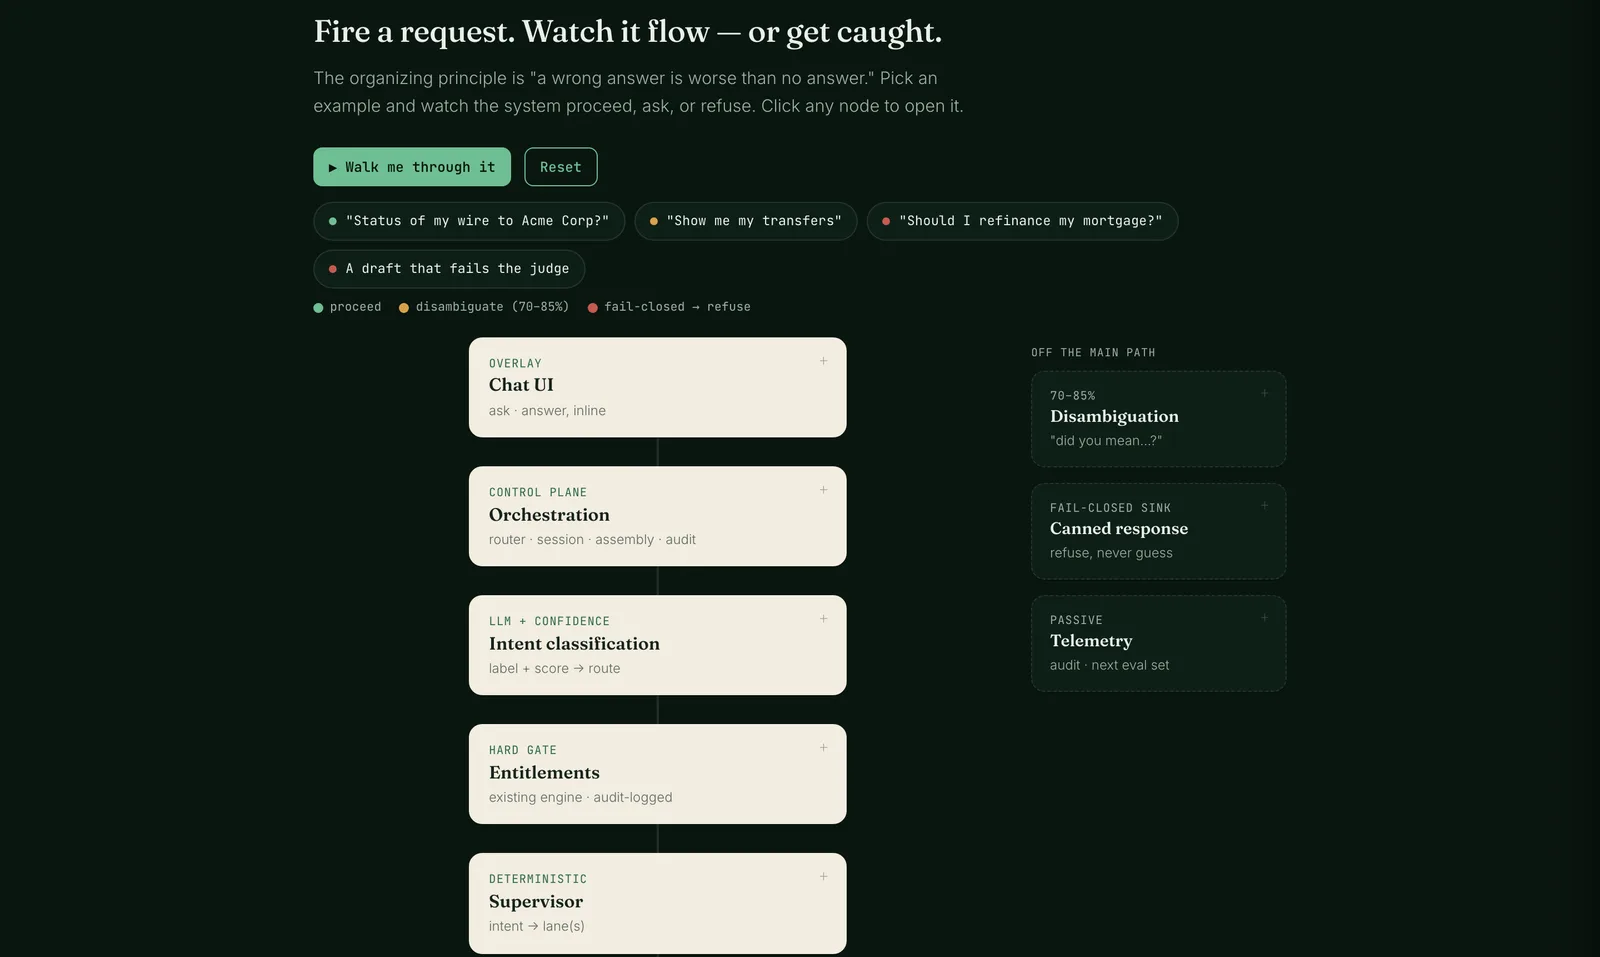
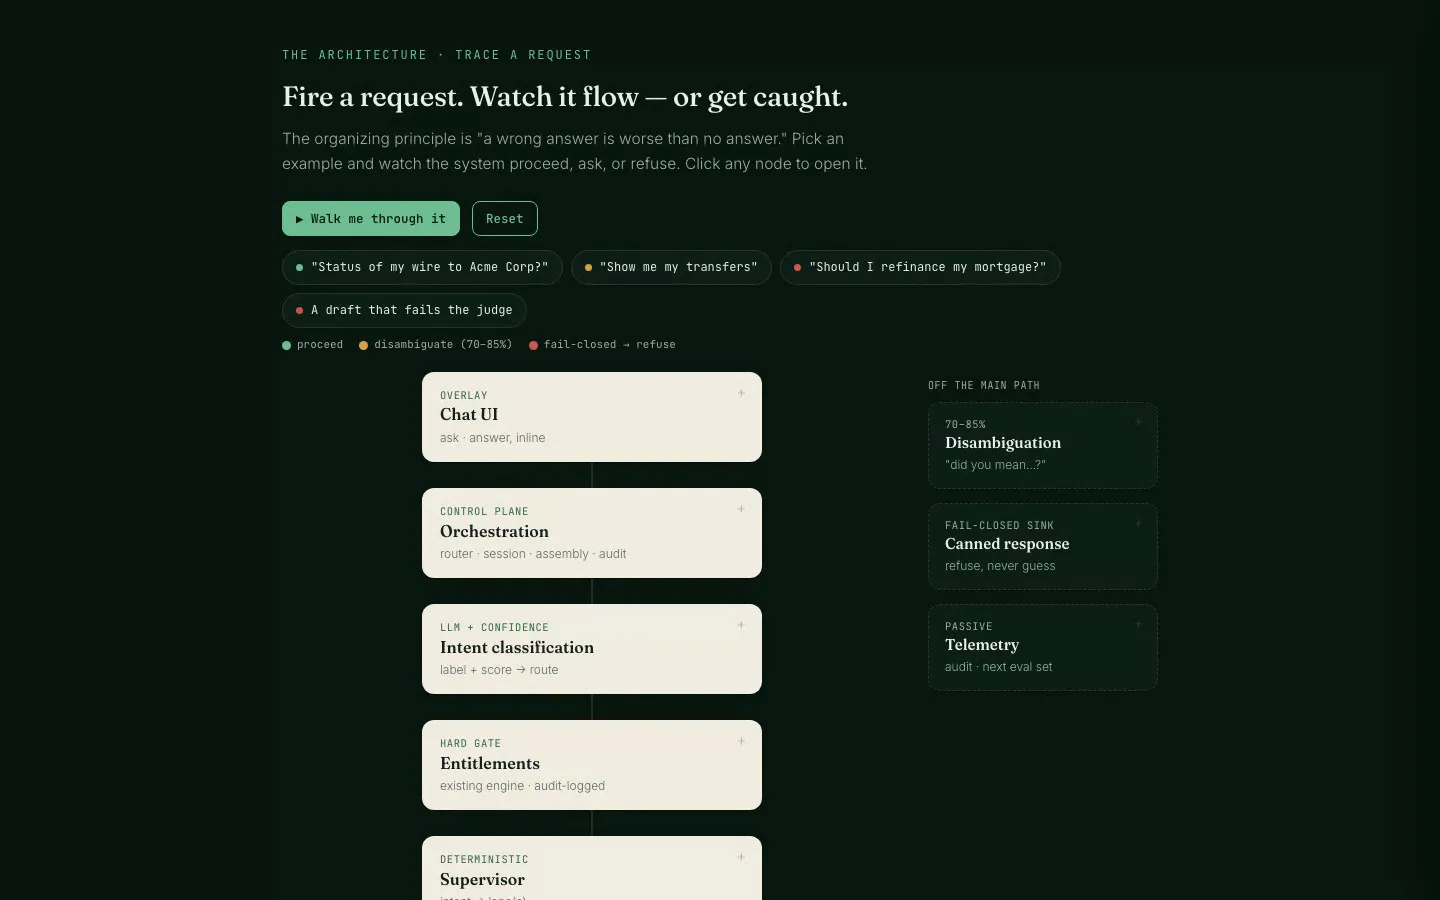
edits

diff --git a/index.html b/index.html
@@ -74,7 +74,7 @@
         <a class="openlink" href="/granite/" data-fallback="https://granite-gilt-zeta.vercel.app">view project <span class="arrow">→</span></a>
       </div>
       <a class="stageshot" href="/granite/" data-fallback="https://granite-gilt-zeta.vercel.app" aria-label="Open Granite">
-        <img src="assets/granite.webp" alt="Granite — interactive architecture walkthrough" loading="lazy" decoding="async" width="1600" height="957">
+        <video muted loop playsinline preload="none" poster="assets/granite.webp" data-vid="assets/granite.mp4" width="1440" height="900" aria-label="Granite — watch the architecture trace a request"></video>
       </a>
     </article>
 
@@ -87,7 +87,7 @@
         <a class="openlink" href="/strata/" data-fallback="https://strata-phi-ochre.vercel.app">view project <span class="arrow">→</span></a>
       </div>
       <a class="stageshot" href="/strata/" data-fallback="https://strata-phi-ochre.vercel.app" aria-label="Open Strata">
-        <img src="assets/strata.webp" alt="Strata — extraction engine walkthrough" loading="lazy" decoding="async" width="1600" height="880">
+        <video muted loop playsinline preload="none" poster="assets/strata.webp" data-vid="assets/strata.mp4" width="1440" height="900" aria-label="Strata — switching from scheduling intake to acquisition integration"></video>
       </a>
     </article>
 
@@ -100,7 +100,7 @@
         <a class="openlink" href="/cairn/" data-fallback="https://cairn-weld.vercel.app">view project <span class="arrow">→</span></a>
       </div>
       <a class="stageshot" href="/cairn/" data-fallback="https://cairn-weld.vercel.app" aria-label="Open Cairn">
-        <img src="assets/cairn.webp" alt="Cairn — Sierra backcountry planner" loading="lazy" decoding="async" width="1600" height="643">
+        <video muted loop playsinline preload="none" poster="assets/cairn.webp" data-vid="assets/cairn.mp4" width="1440" height="900" aria-label="Cairn — typing a trip request and opening a matched route"></video>
       </a>
     </article>
   </section>
@@ -177,18 +177,31 @@
     }).catch(() => { location.href = em.href; });
   });
 
-  /* Live tick — real NOAA conditions via Cairn's API. Honest by construction:
-     if the data can't be fetched, the line stays hidden. Never faked. */
+  /* Systems check — the visitor's own browser pings each project (and Cairn's
+     NOAA feed) and types out the result. Real requests, real results; if a check
+     fails it shows ✗, and if nothing can be verified the line stays hidden. */
   const tick = document.getElementById("tick");
   const tickText = document.getElementById("tickText");
   const reduced = matchMedia("(prefers-reduced-motion: reduce)").matches;
-  let current = "";
+  const local = location.protocol === "file:";
+  const CHECKS = [
+    ["granite", "/granite/", "https://granite-gilt-zeta.vercel.app/"],
+    ["strata",  "/strata/",  "https://strata-phi-ochre.vercel.app/"],
+    ["cairn",   "/cairn/",   "https://cairn-weld.vercel.app/"]
+  ];
+  let lastChecked = 0;
 
-  function compose(d) {
-    const t = d.trailheads && d.trailheads["duck-pass"]; // Coldwater TH, Mammoth Lakes
-    if (!t || t.low == null) return null;
-    const mins = Math.max(1, Math.round((Date.now() - new Date(d.fetchedAt)) / 60000));
-    return `live — Mammoth Lakes ${t.low}°F overnight · NOAA, via Cairn · updated ${mins}m ago`;
+  async function ping(path, abs) {
+    try {
+      if (local) { await fetch(abs, { method: "HEAD", mode: "no-cors", signal: AbortSignal.timeout(7000) }); return true; }
+      const r = await fetch(path, { method: "HEAD", signal: AbortSignal.timeout(7000) });
+      return r.ok;
+    } catch (e) { return false; }
+  }
+
+  function ago() {
+    const m = Math.round((Date.now() - lastChecked) / 60000);
+    return m < 1 ? "checked just now" : `checked ${m}m ago`;
   }
 
   function typeOut(line) {
@@ -204,32 +217,39 @@
     })();
   }
 
-  async function fetchConditions() {
-    // same-origin through the vercel rewrite in production; absolute URL as fallback
-    for (const url of ["/cairn/api/conditions", "https://cairn-weld.vercel.app/api/conditions"]) {
-      try {
-        const r = await fetch(url, { signal: AbortSignal.timeout(8000) });
-        if (r.ok) return await r.json();
-      } catch (e) {}
-    }
-    return null;
-  }
-
+  let current = "";
   async function refresh(first) {
-    const d = await fetchConditions();
-    const line = d && compose(d);
-    if (!line) { if (first) tick.hidden = true; return; }
-    if (first) { typeOut(line); }
+    const results = await Promise.all(CHECKS.map(([n, p, a]) => ping(p, a)));
+    if (!results.some(Boolean)) { if (first) tick.hidden = true; return; } // can't verify anything — say nothing
+    lastChecked = Date.now();
+    const parts = CHECKS.map(([n], i) => `${n} ${results[i] ? "✓" : "✗"}`).join(" · ");
+    const line = `systems live — ${parts} — `;
+    if (first) { typeOut(line + ago()); }
     else if (line !== current) {
-      tickText.textContent = line;
+      tickText.textContent = line + ago();
       tick.classList.add("flash");
       tick.addEventListener("animationend", () => tick.classList.remove("flash"), { once: true });
     }
     current = line;
   }
 
+  // stage videos — load + play only in view; reduced-motion visitors keep the poster
+  const vids = document.querySelectorAll(".stageshot video");
+  if (!reduced && "IntersectionObserver" in window) {
+    const io = new IntersectionObserver(es => es.forEach(e => {
+      const v = e.target;
+      if (e.isIntersecting) {
+        v.muted = true; // Safari requires the property, not just the attribute, for autoplay
+        if (!v.src) { v.src = v.dataset.vid; v.load(); }
+        v.play().catch(() => {});
+      } else v.pause();
+    }), { threshold: 0.25 });
+    vids.forEach(v => io.observe(v));
+  }
+
   refresh(true);
-  setInterval(() => refresh(false), 10 * 60 * 1000); // NOAA cache is 30 min; 10 min is honest
+  setInterval(() => refresh(false), 5 * 60 * 1000);
+  setInterval(() => { if (!tick.hidden && current) tickText.textContent = current + ago(); }, 60 * 1000);
 })();
 </script>
 

diff --git a/styles.css b/styles.css
@@ -54,8 +54,8 @@ body{background:var(--bg);color:var(--ink);font-family:var(--sans);font-weight:4
 
 /* ---------- hero ---------- */
 .hero{min-height:100vh;min-height:100dvh;display:flex;flex-direction:column;
-      justify-content:center;position:relative;padding-top:20px;padding-bottom:30px}
-.topo{position:absolute;top:0;left:0;width:100%;opacity:.06;pointer-events:none}
+      justify-content:center;position:relative;padding-top:0;padding-bottom:14vh}
+.topo{position:absolute;top:0;left:0;width:100%;opacity:.11;pointer-events:none}
 .hero>*{position:relative}
 .eyebrow{font-family:var(--mono);font-size:12px;letter-spacing:.16em;text-transform:uppercase;
          color:var(--accent);margin-bottom:24px}
@@ -134,11 +134,11 @@ section.block{padding-top:56px;padding-bottom:56px;border-top:1px solid var(--ru
 .openlink:hover .arrow{transform:translateX(3px)}
 .stageshot{display:block;border:1px solid var(--rule-strong);border-radius:10px;
            overflow:hidden;background:var(--panel);line-height:0}
-.stageshot img{width:100%;height:auto;display:block;
+.stageshot img,.stageshot video{width:100%;height:auto;display:block;
                transition:transform .35s var(--ease-out-soft)}
-.stageshot:hover img{transform:scale(1.012)}
+.stageshot:hover img,.stageshot:hover video{transform:scale(1.012)}
 @media(prefers-reduced-motion:reduce){
-  .stageshot img{transition:none}
+  .stageshot img,.stageshot video{transition:none}
   .openlink .arrow{transition:none}
   .livetag .dot{animation:none}
 }